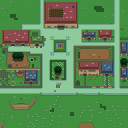
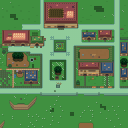
Added smither zone.

Changed region(s): [[0.0625, 0.5312, 0.3125, 0.6875], [0.0312, 0.25, 0.2188, 0.3125], [0.5, 0.0625, 0.5938, 0.1562]]

diff --git a/src/games/stendhal/server/maps/kotoch/SmitherNPC.java b/src/games/stendhal/server/maps/kotoch/SmitherNPC.java
@@ -1,0 +1,86 @@
+package games.stendhal.server.maps.kotoch;
+
+import java.util.Arrays;
+import java.util.HashMap;
+import java.util.Map;
+import java.util.LinkedList;
+import java.util.List;
+
+import games.stendhal.common.Direction;
+import games.stendhal.server.StendhalRPZone;
+import games.stendhal.server.entity.npc.ConversationStates;
+import games.stendhal.server.entity.npc.NPCList;
+import games.stendhal.server.entity.npc.SpeakerNPC;
+import games.stendhal.server.entity.npc.ProducerBehaviour;
+import games.stendhal.server.maps.ZoneConfigurator;
+import games.stendhal.server.pathfinder.Path;
+
+public class SmitherNPC implements ZoneConfigurator {
+
+	private NPCList npcs = NPCList.get();
+
+	/**
+	 * Configure a zone.
+	 *
+	 * @param	zone		The zone to be configured.
+	 * @param	attributes	Configuration attributes.
+	 */
+	public void configureZone(StendhalRPZone zone, Map<String, String> attributes) {
+		buildKotochSmitherArea(zone);
+	}
+
+	private void buildKotochSmitherArea(StendhalRPZone zone) {
+		SpeakerNPC sicky = new SpeakerNPC("Vulcanus") {
+
+			@Override
+			// he doesn't move.
+			protected void createPath() {
+				List<Path.Node> nodes = new LinkedList<Path.Node>();
+				setPath(nodes, false);
+				setDirection(Direction.DOWN);
+			}
+
+			@Override
+			protected void createDialog() {
+				addGoodbye("*cough* ... farewell ... *cough*");
+				add(
+				        ConversationStates.ATTENDING,
+				        Arrays.asList("blood", "vampirette_entrails", "bat_entrails"),
+				        null,
+				        ConversationStates.ATTENDING,
+				        "I need blood. I can take it from the entrails of the alive and undead. I will mix the bloods together for you and #fill your #goblet, if you let me drink some too. But I'm afraid of the powerful #lord.",
+				        null);
+				add(
+				        ConversationStates.ATTENDING,
+				        Arrays.asList("lord", "vampire", "skull_ring"),
+				        null,
+				        ConversationStates.ATTENDING,
+				        "The Vampire Lord rules these Catacombs! And I'm afraid of him. I can only help you if you kill him and bring me his skull ring with the #goblet.",
+				        null);
+
+				add(ConversationStates.ATTENDING, Arrays.asList("empty_goblet", "goblet"), null,
+				        ConversationStates.ATTENDING,
+				        "Only a powerful talisman like this cauldron or a special goblet should contain blood.", null);
+				Map<String, Integer> requiredResources = new HashMap<String, Integer>();
+				requiredResources.put("vampirette_entrails", new Integer(7));
+				requiredResources.put("bat_entrails", new Integer(7));
+				requiredResources.put("skull_ring", new Integer(1));
+				requiredResources.put("empty_goblet", new Integer(1));
+				ProducerBehaviour behaviour = new ProducerBehaviour("sicky_fill_goblet", "fill", "goblet",
+				        requiredResources, 5 * 60, true);
+				addProducer(
+				        behaviour,
+				        "Please don't try to kill me...I'm just a sick old #vampire. Do you have any #blood I could drink? If you have an #empty_goblet I will #fill it with blood for you in my cauldron.");
+
+			}
+		};
+
+		sicky.setDescription("You see a sick vampire.");
+		zone.assignRPObjectID(sicky);
+		sicky.put("class", "sickvampirenpc");
+		sicky.set(61, 60);
+		sicky.initHP(10);
+		zone.add(sicky);
+		npcs.add(sicky);
+	}
+}
